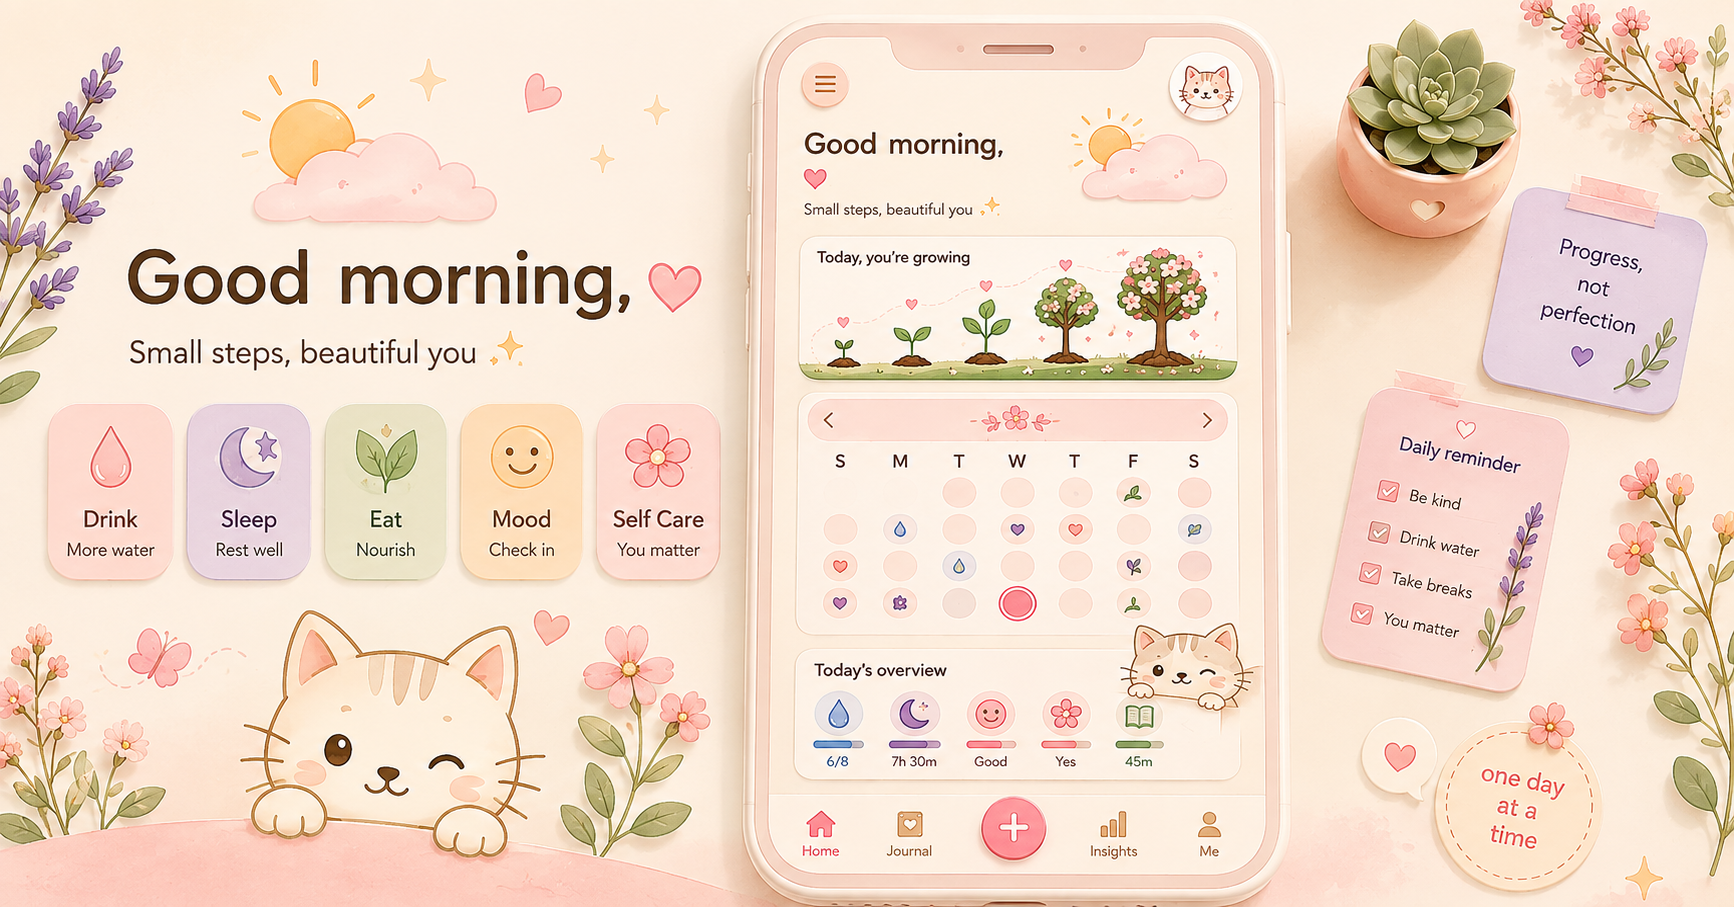
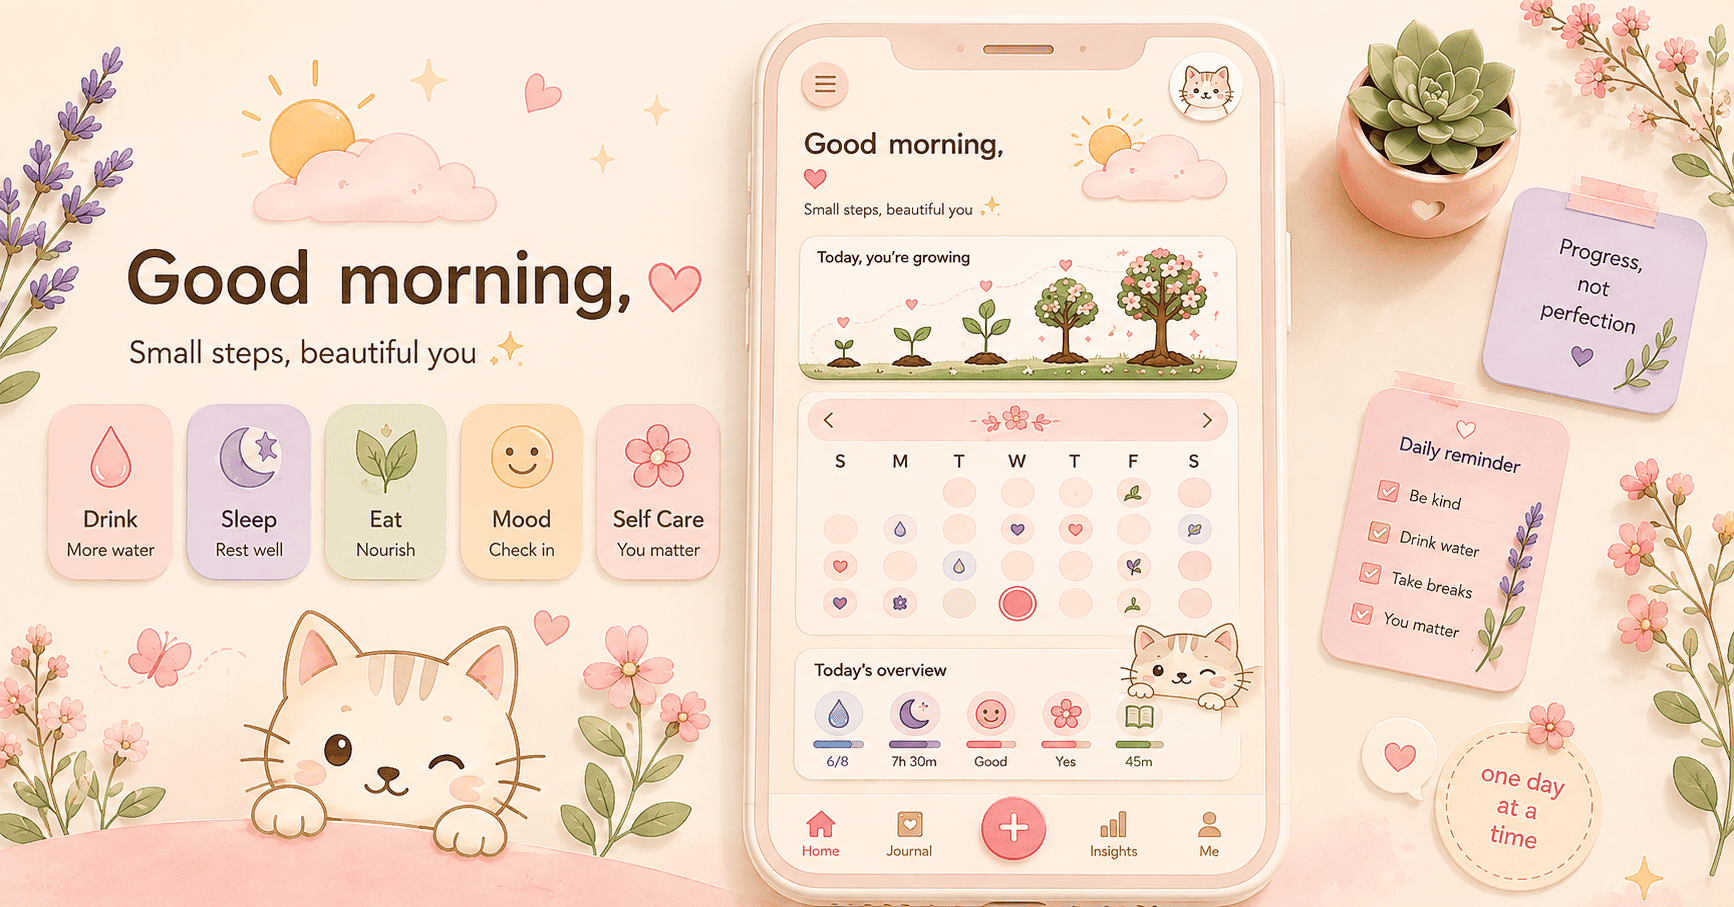
og image added

Changed region(s): [[0.5606, 0.9879, 0.5917, 1.0], [0.5606, 0.0309, 0.5917, 0.0617], [0.4671, 0.7718, 0.4983, 0.8026]]

diff --git a/Frontend/index.html b/Frontend/index.html
@@ -7,7 +7,7 @@
     <meta name="viewport" content="width=device-width, initial-scale=1.0" />
 
     <!-- Title -->
-    <title> Wellness Tracker 🌸</title>
+    <title> Wellness Tracker!!</title>
 
     <!-- SEO -->
     <meta
@@ -25,8 +25,8 @@
 
     <!-- Open Graph -->
     <meta property="og:type" content="website" />
-    <meta property="og:site_name" content="Moni's Wellness Tracker" />
-    <meta property="og:title" content="Moni's Wellness Tracker 🌸" />
+    <meta property="og:site_name" content="Wellness Tracker!!" />
+    <meta property="og:title" content="Wellness Tracker!!" />
     <meta
       property="og:description"
       content="A beautiful personal wellness tracker with habits, journal, cycle tracking, insights, reminders and adorable companions."
@@ -48,7 +48,7 @@
     <meta name="twitter:card" content="summary_large_image" />
     <meta
       name="twitter:title"
-      content="Wellness Tracker 🌸"
+      content="Wellness Tracker!!"
     />
 
     <meta
